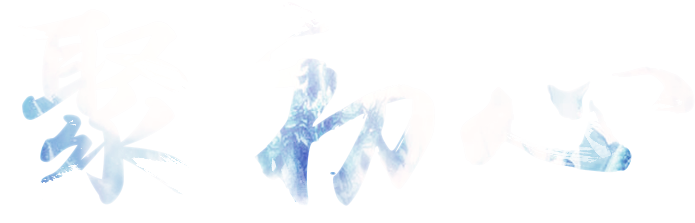
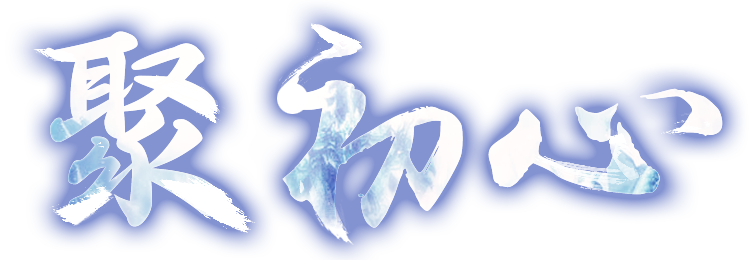
commit

diff --git a/long/dist/css/style.min.css b/long/dist/css/style.min.css
@@ -1,1 +1,1 @@
-.slogan-btn,.slogan-con-in,button,label{cursor:pointer}.forminfo dd,.forminfo dt{word-spacing:8px;letter-spacing:2px}blockquote,body,button,dd,dl,dt,fieldset,form,h1,h2,h3,h4,h5,h6,hr,input,legend,li,ol,p,pre,td,textarea,th,ul{margin:0;padding:0;border:0}html,legend{color:#000}body,html{height:100%}body,button,input,select,textarea{font-size:12px;font-family:'Microsoft Yahei','微软雅黑',\5FAE\8F6F\96C5\9ED1,'宋体',\5b8b\4f53,arial,'Hiragino Sans GB',Tahoma,Arial,Helvetica}dd,dl,dt,li,ol,ul{list-style:none}em{font-style:normal}a,a:hover{text-decoration:none}fieldset,img{border:0}img{-ms-interpolation-mode:bicubic}.clearfix:after{content:'';display:block;height:0;clear:both}.clearfix{zoom:1}.clear{clear:both}.wordwrap{word-break:break-all;word-wrap:break-word}.omg{overflow:hidden;text-overflow:ellipsis;white-space:nowrap}.wrap-top{width:100%;height:880px;background:url(../img/bg1.png) 50% 0 no-repeat}.content{width:1100px;height:880px;margin:0 auto;position:relative}.logo{width:1100px;height:120px}.logo h3{width:235px;height:120px;margin:0 auto;text-indent:-9999px;background:url(../img/logo.png) center no-repeat}.content-slogan{width:1100px;height:480px;margin-top:280px}.slogan-top{width:100%;height:90px}.slogan-top a,.slogan-top h3{display:block;width:535px;height:90px;position:relative;overflow:hidden}.slogan-top a{margin:0 auto;background:url(../img/bg2.png) no-repeat}.slogan-con{width:100%;height:230px;position:relative}.slogan-con-in{width:695px;height:223px;margin:0 auto;background:url(../img/bg3.png) no-repeat;overflow:hidden;position:relative}.slogan-con-in:before{content:"";position:absolute;width:80px;height:350px;top:0;left:-260px;overflow:hidden;background:-moz-linear-gradient(left,rgba(255,255,255,0) 0,rgba(255,255,255,.2) 50%,rgba(255,255,255,0) 100%);background:-webkit-gradient(linear,left top,right top,color-stop(0,rgba(255,255,255,0)),color-stop(50%,rgba(255,255,255,.2)),color-stop(100%,rgba(255,255,255,0)));background:-webkit-linear-gradient(left,rgba(255,255,255,0) 0,rgba(255,255,255,.2) 50%,rgba(255,255,255,0) 100%);background:-o-linear-gradient(left,rgba(255,255,255,0) 0,rgba(255,255,255,.2) 50%,rgba(255,255,255,0) 100%);-webkit-transform:skewX(-45deg);-moz-transform:skewX(-45deg)}.slogan-con-in:hover::before{-webkit-transition:left 1s;-moz-transition:left 1s;transition:left 1s;left:860px}.slogan-con-time{width:57px;height:235px;background:url(../img/bg4.png) no-repeat;position:absolute;top:-35px;left:135px}.slogan-con-time .con{width:20px;height:235px;margin:23px auto 0 25px;color:#e9f0fd;font-size:16px;font-weight:600;text-align:center}.slogan-txt{width:100%;overflow:hidden}.slogan-txt .slogan-txtin{width:745px;line-height:20px;text-align:center;font-size:12px;color:#565f9a;margin:0 auto}.slogan-txt .slogan-txtin a{color:#2a6ff4;font-size:14px}.slogan-btn{width:1030px;height:55px;margin:0 auto;position:relative}.slogan-btn .btn-l,.slogan-btn .btn-r{position:absolute;top:2px;width:199px}.slogan-btn .btn-l{left:0;height:43px;top:5px;background:url(../img/btn-l.png) no-repeat}.slogan-btn .btn-r{right:0;height:52px;background:url(../img/btn-r.png) no-repeat}.wrap-btm{width:100%}.wrap-btm .nav-bg{width:100%;height:97px;background:url(../img/nav-bg.png) 50% 0 no-repeat}.wrap-btm .nav-bg .navin{width:1100px;height:97px;margin:0 auto}.wrap-btm .nav-bg .navin ul{width:1030px;height:94px;margin:0 auto}.wrap-btm .nav-bg .navin li{width:206px;height:97px;float:left;background:url(../img/nav.png) no-repeat;-moz-transition:all .4s linear;-webkit-transition:all .4s linear;-o-transition:all .4s linear;transition:all .4s linear}.wrap-btm .nav-bg .navin li.n1{background-position:0 0}.wrap-btm .nav-bg .navin li.n1.cur{background-position:0 -97px}.wrap-btm .nav-bg .navin li.n2{background-position:-206px 0}.wrap-btm .nav-bg .navin li.n2.cur{background-position:-206px -97px}.wrap-btm .nav-bg .navin li.n3{background-position:-412px 0}.wrap-btm .nav-bg .navin li.n3.cur{background-position:-412px -97px}.wrap-btm .nav-bg .navin li.n4{background-position:-618px 0}.wrap-btm .nav-bg .navin li.n4.cur{background-position:-618px -97px}.wrap-btm .nav-bg .navin li.n5{background-position:-824px 0}.wrap-btm .nav-bg .navin li.n5.cur{background-position:-824px -97px}.wrap-btm .wrap-btm-bg{width:100%;height:873px;background:url(../img/bg5.png) 50% 0 no-repeat}.wrap-btm .wrap-btm-bg .wrap-btm-in{width:1100px;margin:0 auto}.wrap-btm .wrap-btm-bg .wrap-btm-in .forminfo{width:1028px;background:rgba(0,0,0,.2);margin:0 auto;display:none}.wrap-btm .wrap-btm-bg .wrap-btm-in .warm-prompt{width:1020px;margin:0 auto;overflow:hidden}.warm-prompt-txt{text-align:left;padding-top:40px}.warm-prompt-txt .hd{height:35px;line-height:35px;color:#eed68c;font-size:14px}.warm-prompt-txt .bd p{position:relative;padding-left:30px;font-size:12px;line-height:26px;color:#4855a2}.warm-prompt-txt .bd p i{position:absolute;display:inline-block;width:20px;height:20px;background:#a51b54;border-radius:10px;left:0;top:2px;font-style:normal;text-align:center;line-height:20px;font-size:14px;color:rgba(255,255,255,.6);border:1px solid #2d1025}.forminfo dt{overflow:hidden;border:2px solid #23274f}.forminfo dt span{float:left;display:inline;min-width:126px;height:45px;line-height:45px;text-align:center;font-size:16px;color:#eed68c;border-right:2px solid #23274f}.forminfo dt span.hd2,.forminfo dt span.hd3,.forminfo dt span.hd4{width:200px}.forminfo dt span.hd5{width:290px;border-right:none}.forminfo dd em,.forminfo dd span{float:left;display:inline;text-align:center;border-right:2px solid #23274f;font-size:16px}.forminfo dd{overflow:hidden;height:40px;border:2px solid #23274f;border-top:none}.forminfo dd em{min-width:126px;height:45px;line-height:45px;color:#455ad9}.forminfo dd span{height:40px;line-height:40px;color:#7786c5}.forminfo dd span.dd-1,.forminfo dd span.dd-2,.forminfo dd span.dd-3{width:200px}.forminfo dd span.dd-4{width:290px;border-right:none}.forminfo dd span.role{color:#b42361}.mask{width:100%;height:100%;background:rgba(0,0,0,.6);position:fixed;z-index:1000;top:0;left:0;display:none}.mask .up{width:632px;height:358px;border:1px solid #364093;position:absolute;top:50%;left:50%;margin-left:-316px;margin-top:-130px;background:url(../img/bg6.png) pink}.mask .up .close-btn{width:35px;height:35px;display:inline-block;position:absolute;top:5px;right:5px;background:url(../img/close.png) no-repeat;z-index:100}.mask .up form{display:block;width:580px;height:280px;padding-top:10px;margin:0 auto}.common_th{height:30px;line-height:30px;text-align:left;font-size:16px;color:#c5a456;margin:10px 0}input{outline:0}.common_tr{margin-top:20px}.common_tr .common_td{margin:10px 0}.common_tr .common_td.diy-input{margin:20px 0 10px}.diy-input input{width:20px;height:20px;margin-right:5px}.diy-input input::before{content:'';background:url(../img/bg8.png) no-repeat;position:absolute;width:20px;height:20px}.diy-input input:checked::before{background:url(../img/bg8.png) -20px 0 no-repeat}.diy-input label{display:inline-block;height:20px;line-height:20px;font-size:14px;vertical-align:top;text-align:center;margin-right:10px;color:#7f85b9}.my-phone .common_text,.my-qq .common_text{display:inline-block;width:280px;height:33px;line-height:33px;text-align:left;padding-left:10px;font-size:14px;background:rgba(38,44,90,.5);border:1px solid #29317b;color:#fff}.save_btn{display:inline-block;width:111px;height:35px;background:url(../img/bg7.png) no-repeat;margin-left:22px;font-size:18px;line-height:35px;color:#fff}
+.content,.slogan-con,.slogan-con-in{position:relative}.slogan-btn,.slogan-con-in,button,label{cursor:pointer}.forminfo dd,.forminfo dt{overflow:hidden;word-spacing:8px;letter-spacing:2px}.clearfix:after,.diy-input input::before{content:''}blockquote,body,button,dd,dl,dt,fieldset,form,h1,h2,h3,h4,h5,h6,hr,input,legend,li,ol,p,pre,td,textarea,th,ul{margin:0;padding:0;border:0}html,legend{color:#000}body,html{height:100%}body,button,input,select,textarea{font-size:12px;font-family:'Microsoft Yahei','微软雅黑',\5FAE\8F6F\96C5\9ED1,'宋体',\5b8b\4f53,arial,'Hiragino Sans GB',Tahoma,Arial,Helvetica}dd,dl,dt,li,ol,ul{list-style:none}em{font-style:normal}a,a:hover{text-decoration:none}fieldset,img{border:0}img{-ms-interpolation-mode:bicubic}.clearfix:after{display:block;height:0;clear:both}.clearfix{zoom:1}.clear{clear:both}.wordwrap{word-break:break-all;word-wrap:break-word}.omg{overflow:hidden;text-overflow:ellipsis;white-space:nowrap}.wrap-top{width:100%;height:880px;background:url(../img/bg1.png) 50% 0 no-repeat}.content{width:1100px;height:880px;margin:0 auto}.logo{width:1100px;height:120px}.logo h3{width:235px;height:120px;margin:0 auto;text-indent:-9999px;background:url(../img/logo.png) center no-repeat}.content-slogan{width:1100px;height:480px;margin-top:245px}.slogan-top{width:100%;height:90px}.slogan-top ul{display:block;width:575px;height:90px;margin:0 auto;overflow:hidden}.slogan-top ul li{background:url(../img/fyb.png) no-repeat;float:left;width:75px;height:90px;margin:0 20px}.slogan-top ul li.gu{background-position:0 0}.slogan-top ul li.mi{background-position:-75px 0}.slogan-top ul li.feng{background-position:-150px 0}.slogan-top ul li.yun{background-position:-225px 0}.slogan-top ul li.bang{background-position:-300px 0}.slogan-con{width:100%}.slogan-con-in{width:750px;height:260px;margin:0 auto;overflow:hidden}.slogan-con-in .txt{background:url(../img/bg3.png) no-repeat;height:260px;display:inline-block;float:left}.slogan-con-in .txt.ju{background-position:0 0;width:260px}.slogan-con-in .txt.chu{background-position:-260px 0;width:220px}.slogan-con-in .txt.xin{background-position:-480px 0;width:270px}.slogan-con .dian{position:absolute;top:100px;left:403px;width:63px;height:61px;background:url(../img/dian.png) no-repeat}.slogan-con-time{width:57px;height:235px;background:url(../img/bg4.png) no-repeat;position:absolute;top:-35px;left:135px}.slogan-con-time .con{width:20px;height:235px;margin:23px auto 0 25px;color:#e9f0fd;font-size:16px;font-weight:600;text-align:center}.slogan-txt{width:100%;overflow:hidden}.slogan-txt .slogan-txtin{width:745px;line-height:20px;text-align:center;font-size:12px;color:#565f9a;margin:0 auto}.slogan-txt .slogan-txtin a{color:#2a6ff4;font-size:14px}.slogan-btn{width:1030px;height:55px;margin:0 auto;position:relative}.slogan-btn .btn-l,.slogan-btn .btn-r{position:absolute;top:2px;width:199px}.slogan-btn .btn-l{left:0;height:43px;top:5px;background:url(../img/btn-l.png) no-repeat}.slogan-btn .btn-r{right:0;height:52px;background:url(../img/btn-r.png) no-repeat}.wrap-btm{width:100%}.wrap-btm .nav-bg{width:100%;height:97px;background:url(../img/nav-bg.png) 50% 0 no-repeat}.wrap-btm .nav-bg .navin{width:1100px;height:97px;margin:0 auto}.wrap-btm .nav-bg .navin ul{width:1030px;height:94px;margin:0 auto}.wrap-btm .nav-bg .navin li{width:206px;height:97px;float:left;background:url(../img/nav.png) no-repeat;-moz-transition:all .4s linear;-webkit-transition:all .4s linear;-o-transition:all .4s linear;transition:all .4s linear}.wrap-btm .nav-bg .navin li.n1{background-position:0 0}.wrap-btm .nav-bg .navin li.n1.cur{background-position:0 -97px}.wrap-btm .nav-bg .navin li.n2{background-position:-206px 0}.wrap-btm .nav-bg .navin li.n2.cur{background-position:-206px -97px}.wrap-btm .nav-bg .navin li.n3{background-position:-412px 0}.wrap-btm .nav-bg .navin li.n3.cur{background-position:-412px -97px}.wrap-btm .nav-bg .navin li.n4{background-position:-618px 0}.wrap-btm .nav-bg .navin li.n4.cur{background-position:-618px -97px}.wrap-btm .nav-bg .navin li.n5{background-position:-824px 0}.wrap-btm .nav-bg .navin li.n5.cur{background-position:-824px -97px}.wrap-btm .wrap-btm-bg{width:100%;height:873px;background:url(../img/bg5.png) 50% 0 no-repeat}.wrap-btm .wrap-btm-bg .wrap-btm-in{width:1100px;margin:0 auto}.wrap-btm .wrap-btm-bg .wrap-btm-in .forminfo{width:1028px;background:rgba(0,0,0,.2);margin:0 auto;display:none}.wrap-btm .wrap-btm-bg .wrap-btm-in .warm-prompt{width:1020px;margin:0 auto;overflow:hidden}.warm-prompt-txt{text-align:left;padding-top:40px}.warm-prompt-txt .hd{height:35px;line-height:35px;color:#eed68c;font-size:14px}.warm-prompt-txt .bd p{position:relative;padding-left:30px;font-size:12px;line-height:26px;color:#4855a2}.warm-prompt-txt .bd p i{position:absolute;display:inline-block;width:20px;height:20px;background:#a51b54;border-radius:10px;left:0;top:2px;font-style:normal;text-align:center;line-height:20px;font-size:14px;color:rgba(255,255,255,.6);border:1px solid #2d1025}.forminfo dt{border:2px solid #23274f}.forminfo dt span{float:left;display:inline;min-width:126px;height:45px;line-height:45px;text-align:center;font-size:16px;color:#eed68c;border-right:2px solid #23274f}.forminfo dt span.hd2,.forminfo dt span.hd3,.forminfo dt span.hd4{width:200px}.forminfo dt span.hd5{width:290px;border-right:none}.forminfo dd em,.forminfo dd span{float:left;display:inline;text-align:center;border-right:2px solid #23274f;font-size:16px}.forminfo dd{height:40px;border:2px solid #23274f;border-top:none}.forminfo dd em{min-width:126px;height:45px;line-height:45px;color:#455ad9}.forminfo dd span{height:40px;line-height:40px;color:#7786c5}.forminfo dd span.dd-1,.forminfo dd span.dd-2,.forminfo dd span.dd-3{width:200px}.forminfo dd span.dd-4{width:290px;border-right:none}.forminfo dd span.role{color:#b42361}.mask{width:100%;height:100%;background:rgba(0,0,0,.6);position:fixed;z-index:1000;top:0;left:0;display:none}.mask .up{width:632px;height:358px;border:1px solid #364093;position:absolute;top:50%;left:50%;margin-left:-316px;margin-top:-130px;background:url(../img/bg6.png) pink}.mask .up .close-btn{width:35px;height:35px;display:inline-block;position:absolute;top:5px;right:5px;background:url(../img/close.png) no-repeat;z-index:100}.mask .up form{display:block;width:580px;height:280px;padding-top:10px;margin:0 auto}.common_th{height:30px;line-height:30px;text-align:left;font-size:16px;color:#c5a456;margin:10px 0}input{outline:0}.common_tr{margin-top:20px}.common_tr .common_td{margin:10px 0}.common_tr .common_td.diy-input{margin:20px 0 10px}.diy-input input{width:20px;height:20px;margin-right:5px}.diy-input input::before{background:url(../img/bg8.png) no-repeat;position:absolute;width:20px;height:20px}.diy-input input:checked::before{background:url(../img/bg8.png) -20px 0 no-repeat}.diy-input label{display:inline-block;height:20px;line-height:20px;font-size:14px;vertical-align:top;text-align:center;margin-right:10px;color:#7f85b9}.my-phone .common_text,.my-qq .common_text{display:inline-block;width:280px;height:33px;line-height:33px;text-align:left;padding-left:10px;font-size:14px;background:rgba(38,44,90,.5);border:1px solid #29317b;color:#fff}.save_btn{display:inline-block;width:111px;height:35px;background:url(../img/bg7.png) no-repeat;margin-left:22px;font-size:18px;line-height:35px;color:#fff}

diff --git a/long/src/css/style.min.css b/long/src/css/style.min.css
@@ -26,15 +26,32 @@ img { -ms-interpolation-mode: bicubic; }
 .logo{width: 1100px;height: 120px;}
 .logo h3{width: 235px;height: 120px;margin: 0 auto;text-indent: -9999px;background: url(../img/logo.png) no-repeat center;}
 
-.content-slogan{width: 1100px; height: 480px;margin-top: 280px;}
+.content-slogan{width: 1100px; height: 480px;margin-top: 245px;}
 .slogan-top{width: 100%;height: 90px;}
-.slogan-top a {display: block;width: 535px;height: 90px;margin: 0 auto;background: url(../img/bg2.png) no-repeat;overflow: hidden;position: relative;}
-.slogan-top h3{display: block;width: 535px;height: 90px;overflow: hidden;position: relative;}
-.slogan-con{width: 100%;height: 230px;position: relative;}
-.slogan-con-in{width: 695px;height: 223px;margin: 0 auto;background: url(../img/bg3.png) no-repeat;cursor: pointer;overflow: hidden;position: relative;}
-.slogan-con-in:before {content: "";position: absolute;width: 80px;height: 350px;top: 0;left: -260px;overflow: hidden;    background: -moz-linear-gradient(left,rgba(255,255,255,0)0,rgba(255,255,255,.2)50%,rgba(255,255,255,0)100%);    background: -webkit-gradient(linear,left top,right top,color-stop(0%,rgba(255,255,255,0)),color-stop(50%,rgba(255,255,255,.2)),color-stop(100%,rgba(255,255,255,0)));    background: -webkit-linear-gradient(left,rgba(255,255,255,0)0,rgba(255,255,255,.2)50%,rgba(255,255,255,0)100%);    background: -o-linear-gradient(left,rgba(255,255,255,0)0,rgba(255,255,255,.2)50%,rgba(255,255,255,0)100%);    -webkit-transform: skewX(-45deg);
+/*.slogan-top a {display: block;width: 535px;height: 90px;margin: 0 auto;background: url(../img/bg2.png) no-repeat;overflow: hidden;position: relative;}
+.slogan-top h3{display: block;width: 535px;height: 90px;overflow: hidden;position: relative;}*/
+.slogan-top ul{display: block;width: 575px;height: 90px;margin: 0 auto; overflow: hidden;}
+.slogan-top ul li{background: url(../img/fyb.png) no-repeat;float: left;width: 75px;height: 90px;margin:0 20px;}
+.slogan-top ul li.gu{background-position: 0 0;}
+.slogan-top ul li.mi{background-position: -75px 0;}
+.slogan-top ul li.feng{background-position: -150px 0;}
+.slogan-top ul li.yun{background-position: -225px 0;}
+.slogan-top ul li.bang{background-position: -300px 0;}
+
+
+
+.slogan-con{width: 100%;position: relative;}
+.slogan-con-in{width: 750px;height: 260px;margin: 0 auto;
+	cursor: pointer;overflow: hidden;position: relative;}
+/*.slogan-con-in:before {content: "";position: absolute;width: 80px;height: 350px;top: 0;left: -260px;overflow: hidden;    background: -moz-linear-gradient(left,rgba(255,255,255,0)0,rgba(255,255,255,.2)50%,rgba(255,255,255,0)100%);    background: -webkit-gradient(linear,left top,right top,color-stop(0%,rgba(255,255,255,0)),color-stop(50%,rgba(255,255,255,.2)),color-stop(100%,rgba(255,255,255,0)));    background: -webkit-linear-gradient(left,rgba(255,255,255,0)0,rgba(255,255,255,.2)50%,rgba(255,255,255,0)100%);    background: -o-linear-gradient(left,rgba(255,255,255,0)0,rgba(255,255,255,.2)50%,rgba(255,255,255,0)100%);    -webkit-transform: skewX(-45deg);
     -moz-transform: skewX(-45deg);}
-.slogan-con-in:hover::before {-webkit-transition: left 1s;-moz-transition: left 1s;transition: left 1s;left: 860px;}
+.slogan-con-in:hover::before {-webkit-transition: left 1s;-moz-transition: left 1s;transition: left 1s;left: 860px;}*/
+.slogan-con-in .txt{background: url(../img/bg3.png) no-repeat;height: 260px;display: inline-block;float: left}
+.slogan-con-in .txt.ju{background-position: 0 0;width: 260px;}
+.slogan-con-in .txt.chu{background-position: -260px 0px;width: 220px;}
+.slogan-con-in .txt.xin{background-position: -480px 0;width: 270px;}
+.slogan-con .dian{position: absolute;top: 100px;left: 403px;width: 63px;height: 61px;background: url(../img/dian.png) no-repeat;}
+
 .slogan-con-time{width: 57px;height: 235px;background: url(../img/bg4.png) no-repeat;position: absolute;top: -35px;left: 135px;}
 .slogan-con-time .con{    width: 20px;height: 235px;margin: 23px auto 0 25px;color: #e9f0fd;font-size: 16px;font-weight: 600;text-align: center;}
 .slogan-txt{width: 100%;overflow: hidden;}

diff --git a/long/src/css/style.css b/long/src/css/style.css
@@ -3,15 +3,32 @@
 .logo{width: 1100px;height: 120px;}
 .logo h3{width: 235px;height: 120px;margin: 0 auto;text-indent: -9999px;background: url(../img/logo.png) no-repeat center;}
 
-.content-slogan{width: 1100px; height: 480px;margin-top: 280px;}
+.content-slogan{width: 1100px; height: 480px;margin-top: 245px;}
 .slogan-top{width: 100%;height: 90px;}
-.slogan-top a {display: block;width: 535px;height: 90px;margin: 0 auto;background: url(../img/bg2.png) no-repeat;overflow: hidden;position: relative;}
-.slogan-top h3{display: block;width: 535px;height: 90px;overflow: hidden;position: relative;}
-.slogan-con{width: 100%;height: 230px;position: relative;}
-.slogan-con-in{width: 695px;height: 223px;margin: 0 auto;background: url(../img/bg3.png) no-repeat;cursor: pointer;overflow: hidden;position: relative;}
-.slogan-con-in:before {content: "";position: absolute;width: 80px;height: 350px;top: 0;left: -260px;overflow: hidden;    background: -moz-linear-gradient(left,rgba(255,255,255,0)0,rgba(255,255,255,.2)50%,rgba(255,255,255,0)100%);    background: -webkit-gradient(linear,left top,right top,color-stop(0%,rgba(255,255,255,0)),color-stop(50%,rgba(255,255,255,.2)),color-stop(100%,rgba(255,255,255,0)));    background: -webkit-linear-gradient(left,rgba(255,255,255,0)0,rgba(255,255,255,.2)50%,rgba(255,255,255,0)100%);    background: -o-linear-gradient(left,rgba(255,255,255,0)0,rgba(255,255,255,.2)50%,rgba(255,255,255,0)100%);    -webkit-transform: skewX(-45deg);
+/*.slogan-top a {display: block;width: 535px;height: 90px;margin: 0 auto;background: url(../img/bg2.png) no-repeat;overflow: hidden;position: relative;}
+.slogan-top h3{display: block;width: 535px;height: 90px;overflow: hidden;position: relative;}*/
+.slogan-top ul{display: block;width: 575px;height: 90px;margin: 0 auto; overflow: hidden;}
+.slogan-top ul li{background: url(../img/fyb.png) no-repeat;float: left;width: 75px;height: 90px;margin:0 20px;}
+.slogan-top ul li.gu{background-position: 0 0;}
+.slogan-top ul li.mi{background-position: -75px 0;}
+.slogan-top ul li.feng{background-position: -150px 0;}
+.slogan-top ul li.yun{background-position: -225px 0;}
+.slogan-top ul li.bang{background-position: -300px 0;}
+
+
+
+.slogan-con{width: 100%;position: relative;}
+.slogan-con-in{width: 750px;height: 260px;margin: 0 auto;
+	cursor: pointer;overflow: hidden;position: relative;}
+/*.slogan-con-in:before {content: "";position: absolute;width: 80px;height: 350px;top: 0;left: -260px;overflow: hidden;    background: -moz-linear-gradient(left,rgba(255,255,255,0)0,rgba(255,255,255,.2)50%,rgba(255,255,255,0)100%);    background: -webkit-gradient(linear,left top,right top,color-stop(0%,rgba(255,255,255,0)),color-stop(50%,rgba(255,255,255,.2)),color-stop(100%,rgba(255,255,255,0)));    background: -webkit-linear-gradient(left,rgba(255,255,255,0)0,rgba(255,255,255,.2)50%,rgba(255,255,255,0)100%);    background: -o-linear-gradient(left,rgba(255,255,255,0)0,rgba(255,255,255,.2)50%,rgba(255,255,255,0)100%);    -webkit-transform: skewX(-45deg);
     -moz-transform: skewX(-45deg);}
-.slogan-con-in:hover::before {-webkit-transition: left 1s;-moz-transition: left 1s;transition: left 1s;left: 860px;}
+.slogan-con-in:hover::before {-webkit-transition: left 1s;-moz-transition: left 1s;transition: left 1s;left: 860px;}*/
+.slogan-con-in .txt{background: url(../img/bg3.png) no-repeat;height: 260px;display: inline-block;float: left}
+.slogan-con-in .txt.ju{background-position: 0 0;width: 260px;}
+.slogan-con-in .txt.chu{background-position: -260px 0px;width: 220px;}
+.slogan-con-in .txt.xin{background-position: -480px 0;width: 270px;}
+.slogan-con .dian{position: absolute;top: 100px;left: 403px;width: 63px;height: 61px;background: url(../img/dian.png) no-repeat;}
+
 .slogan-con-time{width: 57px;height: 235px;background: url(../img/bg4.png) no-repeat;position: absolute;top: -35px;left: 135px;}
 .slogan-con-time .con{    width: 20px;height: 235px;margin: 23px auto 0 25px;color: #e9f0fd;font-size: 16px;font-weight: 600;text-align: center;}
 .slogan-txt{width: 100%;overflow: hidden;}

diff --git a/long/_index.html b/long/_index.html
@@ -15,12 +15,22 @@
 				</div>
 				<div class="content-slogan">
 					<div class="slogan-top">
-						<a href="javascript:;"><h3></h3></a>
+						<ul>
+							<li class="gu"></li>
+							<li class="mi"></li>
+							<li class="feng"></li>
+							<li class="yun"></li>
+							<li class="bang"></li>
+						</ul>
 					</div>
 					<div class="slogan-con">
-						<div class="slogan-con-in"></div>
+						<div class="slogan-con-in">
+							<span class="txt ju"></span>
+							<span class="txt chu"></span>
+							<span class="txt xin"></span>
+						</div>
+						<div class="dian"></div>
 						<div class="slogan-con-time">
-							<div class="con"></div>
 						</div>
 					</div>
 					<div class="slogan-txt">
